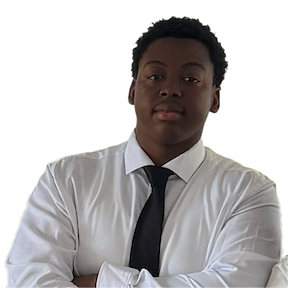
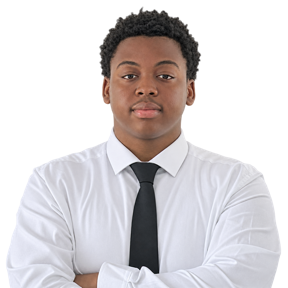
Update boot screen duration and animation delays

diff --git a/components/shared/BootScreen.tsx b/components/shared/BootScreen.tsx
@@ -27,7 +27,7 @@ function BootDialog({ title, status }: { title: string; status: string }) {
       <p className={styles.status}>{status}</p>
       <ul className={styles.icons} aria-hidden="true">
         {sections.map((section, index) => (
-          <li key={section.id} style={{ animationDelay: `${250 + index * 400}ms` }}>
+          <li key={section.id} style={{ animationDelay: `${400 + index * 700}ms` }}>
             <PixelIcon name={section.id} size={40} />
           </li>
         ))}
@@ -38,7 +38,7 @@ function BootDialog({ title, status }: { title: string; status: string }) {
 
 /**
  * The start-up screen. Its timing is pure CSS (see BootScreen.module.css), so it always
- * dismisses itself after ~3.6s — even if JavaScript never loads. JavaScript only adds
+ * dismisses itself after ~5.6s — even if JavaScript never loads. JavaScript only adds
  * "tap to skip", the once-per-session skip (inline script in app/layout.tsx) and Restart.
  */
 export default function BootScreen() {

diff --git a/components/shared/BootScreen.module.css b/components/shared/BootScreen.module.css
@@ -1,11 +1,11 @@
-/* Self-dismissing start-up screen: total run time ≈ 3.6s, driven only by CSS. */
+/* Self-dismissing start-up screen: total run time ≈ 5.6s, driven only by CSS. */
 
 .boot {
   position: fixed;
   inset: 0;
   z-index: 1000;
   cursor: default;
-  animation: boot-out 3600ms linear forwards;
+  animation: boot-out 5600ms linear forwards;
 }
 
 /* Already played this session → skip entirely. */
@@ -15,7 +15,7 @@
 
 @keyframes boot-out {
   0%,
-  90% {
+  93% {
     opacity: 1;
     visibility: visible;
   }
@@ -103,7 +103,7 @@
   height: 100%;
   background: repeating-linear-gradient(90deg, var(--periwinkle) 0 14px, transparent 14px 16px);
   box-shadow: inset 0 1px 0 var(--periwinkle-light);
-  animation: boot-fill 3000ms steps(16, end) both;
+  animation: boot-fill 5000ms steps(16, end) both;
 }
 
 @keyframes boot-fill {

diff --git a/README.md b/README.md
@@ -41,7 +41,7 @@ scripts/              generate-logo-assets.py — rebuilds the logo, favicon and
 
 - The start-up screen spins the 3D PS logo (`public/logo.glb`, drawn live with three.js; the flat logo is the fallback),
   is timed purely in CSS
-  (about 3.6s), plays once per browser session, honours
+  (about 5.6s), plays once per browser session, honours
   `prefers-reduced-motion`, and can be clicked to skip. It dismisses itself even if JavaScript fails.
 - Without JavaScript the whole CV is shown as a plain document.
 - The contact form has no backend: it opens a pre-filled draft in the visitor's own email app.
